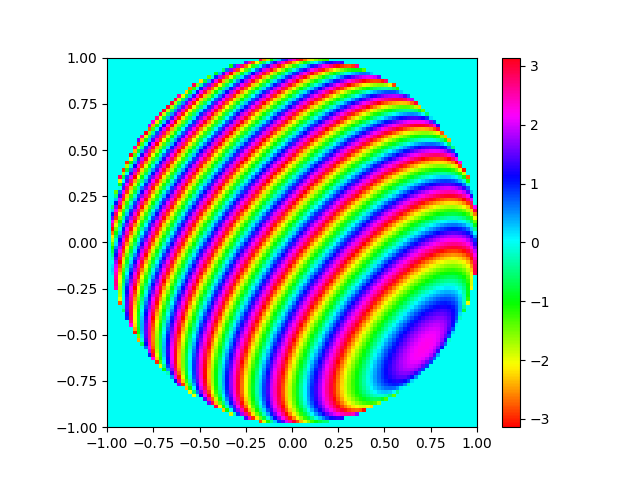
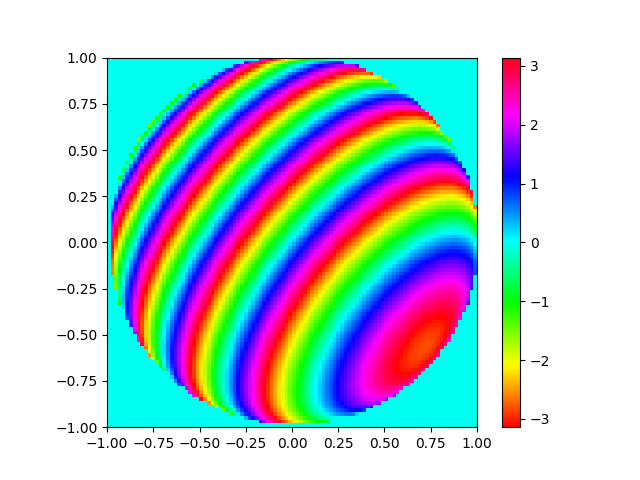
Beschleunigt, steps=50 in Ex7

diff --git a/func.py b/func.py
@@ -1,5 +1,5 @@
 import numpy as np
-
+import time
 def array_transfer_vector(u,v,frequency):
 
     positions=1/100 * np.array([[-1.808, -2.39,-0.44],    [3.398,2.163,-2.385],\
@@ -15,12 +15,9 @@ def array_transfer_vector(u,v,frequency):
     data_transfer_vector = np.zeros((16,),dtype=complex)
     w = np.sqrt(1 - u**2 - v**2)
 
+    data_transfer_vector = np.exp(1j * 2.0  * np.pi * (frequency / 343.0) * np.array([u,v,w]) @ positions.T)
 
-    for n in range(0,16):
-        out = np.exp(1j * 2.0  * np.pi * (frequency / 343.0) * np.array([u,v,w]) @ positions[n])
-        data_transfer_vector[n] = out
-        # print(out)
-    # print(data_transfer_vector)
+
     return data_transfer_vector
 
 def array_factor(u,v,frequency):
@@ -28,27 +25,20 @@ def array_factor(u,v,frequency):
 
 def broadband_beamforming(u,v, Z : np.array, freq_bins:np.array):
     BF = np.sum([abs(array_transfer_vector(u,v,freq_bins[k]).conj().T @ Z[:,k])**2 for k in range(200)], axis = 0)
+
     return BF
 
 def doa_estimator(steps, Z, freq_bins):
     bf = [(u,v,broadband_beamforming(u,v,Z, freq_bins)) for v in np.arange(-1, 1, 1/steps) for u in np.arange(-1, 1, 1/steps) if u**2 + v**2 <1]
+
     maximum = max(bf ,key = lambda a: a[2])
 
     u = maximum[0]
     v = maximum[1]
-    w = np.sqrt(1 - u**2 - v**2)
 
-    print(u,v)
-    # azimuth_angle = np.arctan(u/w)
-    # elevation_angle = np.arcsin(v)
+    theta = np.arcsin(np.sqrt(u**2 + v**2))
+    phi = np.arctan2(u,v)
 
-    elevation_angle = np.arccos(w)
-    azimuth_angle = np.arcsin(u/elevation_angle)
+    phi = (phi + 2 * np.pi) % (2*np.pi)
 
-    if azimuth_angle < 0:
-        azimuth_angle = 2*np.pi + azimuth_angle
-
-    if elevation_angle < 0:
-        elevation_angle = 2*np.pi + elevation_angle
-
-    return (azimuth_angle,elevation_angle)
+    return (phi,theta)

diff --git a/Ex7.py b/Ex7.py
@@ -19,23 +19,35 @@ doas = []
 
 for n in tqdm(range(0,16)):
     data_dict[n] = wavfile.read("Data/Preprocessed_UAV_" + str(n+1) + ".wav")[-1]
+
+
+
 for second in tqdm(range(100)):
+
     for n in range(16):
         data_dict_second[n] = data_dict[n][192000 * second:192000 *(second+1)]
-
         fourier_channel_dict[n] = np.fft.fft(data_dict_second[n],N)[0:200]
 
     fourier_channel_matrix = np.array(list(fourier_channel_dict.values()))
 
-    steps = 10
+    steps = 50
 
     doa = doa_estimator(steps,fourier_channel_matrix,freq_bins)
-
     doas.append((np.rad2deg(doa[0]),np.rad2deg(doa[1])))
 
+
+plt.ylim(0,400)
+plt.xlabel("time [s]")
+plt.ylabel("Angle [deg]")
+plt.title("DOA Azimuth angle")
 plt.scatter(list(range(100)), [ a[0] for a in doas])
-plt.show()
 plt.savefig("doa_azimuth.png")
-plt.scatter(list(range(100)), [ a[1] for a in doas])
 plt.show()
+
+plt.ylim(20,100)
+plt.xlabel("time [s]")
+plt.ylabel("Angle [deg]")
+plt.title("DOA Elevation angle")
+plt.scatter(list(range(100)), [ a[1] for a in doas])
 plt.savefig("doa_elevation.png")
+plt.show()

diff --git a/Ex6.py b/Ex6.py
@@ -24,7 +24,7 @@ freq_bins = np.fft.fftfreq(N, 1/sample_rate)[:200]
 
 
 
-steps = 10
+steps = 100
 
 doa = doa_estimator(steps,fourier_channel_matrix,freq_bins)
 
